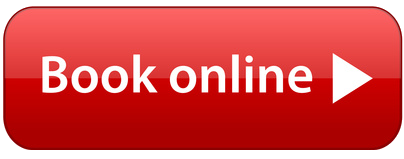
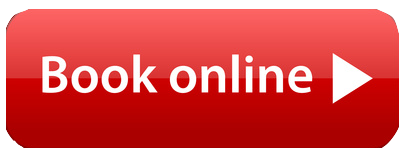
Update README with new screen grabs from the project

diff --git a/src/components/Screens/Screens.css b/src/components/Screens/Screens.css
@@ -11,7 +11,7 @@
 .screensGridContainer {
   font-family: Arial, Helvetica, sans-serif;
   color: #ffffff;
-  padding: 0 10%;
+  padding: 0 10% 10% 10%;
   letter-spacing: 1px;
 } 
 
@@ -47,9 +47,10 @@
   font-family: none;
   text-align: center;
   padding: 15px;
-  border-bottom: 2px solid #0068ff;
+  border-bottom: 8px solid #0068ff;
   margin: 0px auto 25px;
   color: #ffaa00;
+  font-family: sans-serif;
 }
 
 .screenDescription  {
@@ -75,6 +76,11 @@
   font-size: 12px;
   margin-bottom: 5px;
   font-family: fantasy;
+}
+
+.bookNowButton {
+  width: 40%;
+  margin: 50px 30%;
 }
 
 
@@ -221,6 +227,7 @@
   
   .screensImageStyling {
     padding: 20px;
+    margin-top: 100px;
   }  
 
   .screensImageStyling {
@@ -250,7 +257,7 @@
 
   .screensImageContainer {
     margin: 0px;
-    padding: 95px 0px 70px 30px;
+    padding: 130px 0px 70px 30px;
   }
 
   .screensInfoContainer {
@@ -261,18 +268,14 @@
 
   .screensHeader {
     width: 100%;
-    font-size: 40px;
-    padding: 15px;
-    margin: 0px auto 20px;
+    font-size: 35px;
+    padding-bottom: 30px;
+    margin: 0px auto 30px;
   }
   
-
-  .screensImageStyling {
-    padding: 20px;
-  }  
-
   .screensImageStyling {
     padding: 10px;
+    margin-top: 50px;
   }  
 
 }

diff --git a/src/components/AboutUs/AboutUs.jsx b/src/components/AboutUs/AboutUs.jsx
@@ -1,7 +1,8 @@
 import React from 'react';
 import { Link } from 'react-router-dom';
 import styles from './AboutUs.css';
-import giantScreen from './../../assets/images/giant-screen.jpg';
+import giantScreen from './../../assets/images/movie-pic.jpg';
+import bookNow from './../../assets/images/book-online-button.png';
 
 
 function AboutUs() {
@@ -21,7 +22,8 @@ function AboutUs() {
           <p className={styles.companyDescription}>We are here to help you plan your next event, whether that be a small backyard party,
             or a much larger city or corporate event. We are an upscale rental company offering
             exceptional service at an affordable price.</p>
-          <p className={styles.companyDescription}>Please check out some photos <Link to="/images">HERE</Link> to see some of the different type events that we have partnered with in the past.</p>
+          <p className={styles.companyDescription}>Please check out some photos <Link to="/images">HERE</Link> to see some of the different events that we have partnered with in the past.</p>
+          <Link to="/reserveform"><img src={bookNow} className={styles.bookNowButton} /></Link>
         </div>
 
       </div>

diff --git a/src/components/AboutUs/AboutUs.css b/src/components/AboutUs/AboutUs.css
@@ -35,9 +35,10 @@
   font-size: 20px;
   text-align: center;
   padding: 15px;
-  border-bottom: 2px solid #0068ff;
+  border-bottom: 8px solid #0068ff;
   margin: 0 auto 25px;
   color: #ffaa00;
+  font-family: sans-serif;
 }
 
 .companyDescription  {
@@ -47,6 +48,12 @@
   letter-spacing: 1px;
   font-family: Arial, Helvetica, sans-serif;
   font-weight: lighter;
+  text-align: justify;
+}
+
+.bookNowButton {
+  width: 34%;
+  margin: 50px 33%;
 }
 
 
@@ -185,8 +192,8 @@
 @media screen and (min-width:1100px) {
 
   .row {
-    height: 820px;
-    padding-top: 150px;  
+    height: 865px;
+    padding-top: 160px;  
 
   }
 
@@ -209,7 +216,8 @@
  
   .aboutUsHeader {
     font-size:40px;
-    margin-bottom: 20px;
+    margin-bottom: 30px;
+    padding: 20px;
  }
  
  .companyDescription  {

diff --git a/src/components/ProductList/ProductList.css b/src/components/ProductList/ProductList.css
@@ -11,7 +11,7 @@
   color: #ffae00;
   font-size: 35px;
   line-height: 1.1;
-  margin-top: 42px;
+  margin-top: 42px;  font-family: sans-serif;
 }
 
 
@@ -68,8 +68,8 @@
 @media only screen and (min-width: 1300px) {
   
   #productListComponent {
-    padding-top: 150px;
-    padding-bottom: 675px;
+    padding-top: 200px;
+    padding-bottom: 725px;
   }
 
   .productHeaderContainer {
@@ -78,8 +78,8 @@
     width: 130px;
     height: 500px;
     padding: 50px;
-    border-right: 2px solid #0068ff;
-    margin-left: 100px;
+    border-right: 8px solid #0068ff;
+    margin-left: 130px;
     overflow-wrap: break-word;
   }
 

diff --git a/src/components/Screens/Screens.jsx b/src/components/Screens/Screens.jsx
@@ -1,6 +1,7 @@
 import React from 'react';
 import styles from './Screens.css';
 import screensImage from './../../assets/images/screens.jpg';
+import bookNow from './../../assets/images/book-online-button.png';
 
 
 function Screens() {
@@ -12,6 +13,8 @@ function Screens() {
         <div className={styles.screensImageContainer}>
           <img className={styles.screensImageStyling} src={screensImage} />
         </div>
+
+    
 
         <div className={styles.screensInfoContainer}>
 

diff --git a/src/components/Home.jsx b/src/components/Home.jsx
@@ -16,6 +16,7 @@ function Home(props) {
       <AboutUs />
       <Screens /> 
       <ProductList productList={props.productList} />
+      <Footer />
       <style jsx>{` `}</style>
     </div>
   );

diff --git a/src/components/Footer/Footer.css b/src/components/Footer/Footer.css
@@ -2,5 +2,5 @@
   width: 100%;
   padding: 50px;
   height: 300px;
-  background-color: green;
+  background-color: #0d234c;
 }

diff --git a/README.md b/README.md
@@ -8,13 +8,13 @@
 
 ![Image of Paths](src/assets/images/homepage-screen-shot.png)
 
-![Image of Paths](src/assets/images/screen3.png)
-
-
 ![Image of Paths](src/assets/images/screen1.png)
 
 
-![Image of Paths](src/assets/images/screen4.png)
+![Image of Paths](src/assets/images/screen2.png)
+
+
+![Image of Paths](src/assets/images/screen3.png)
 
 </center>
 
